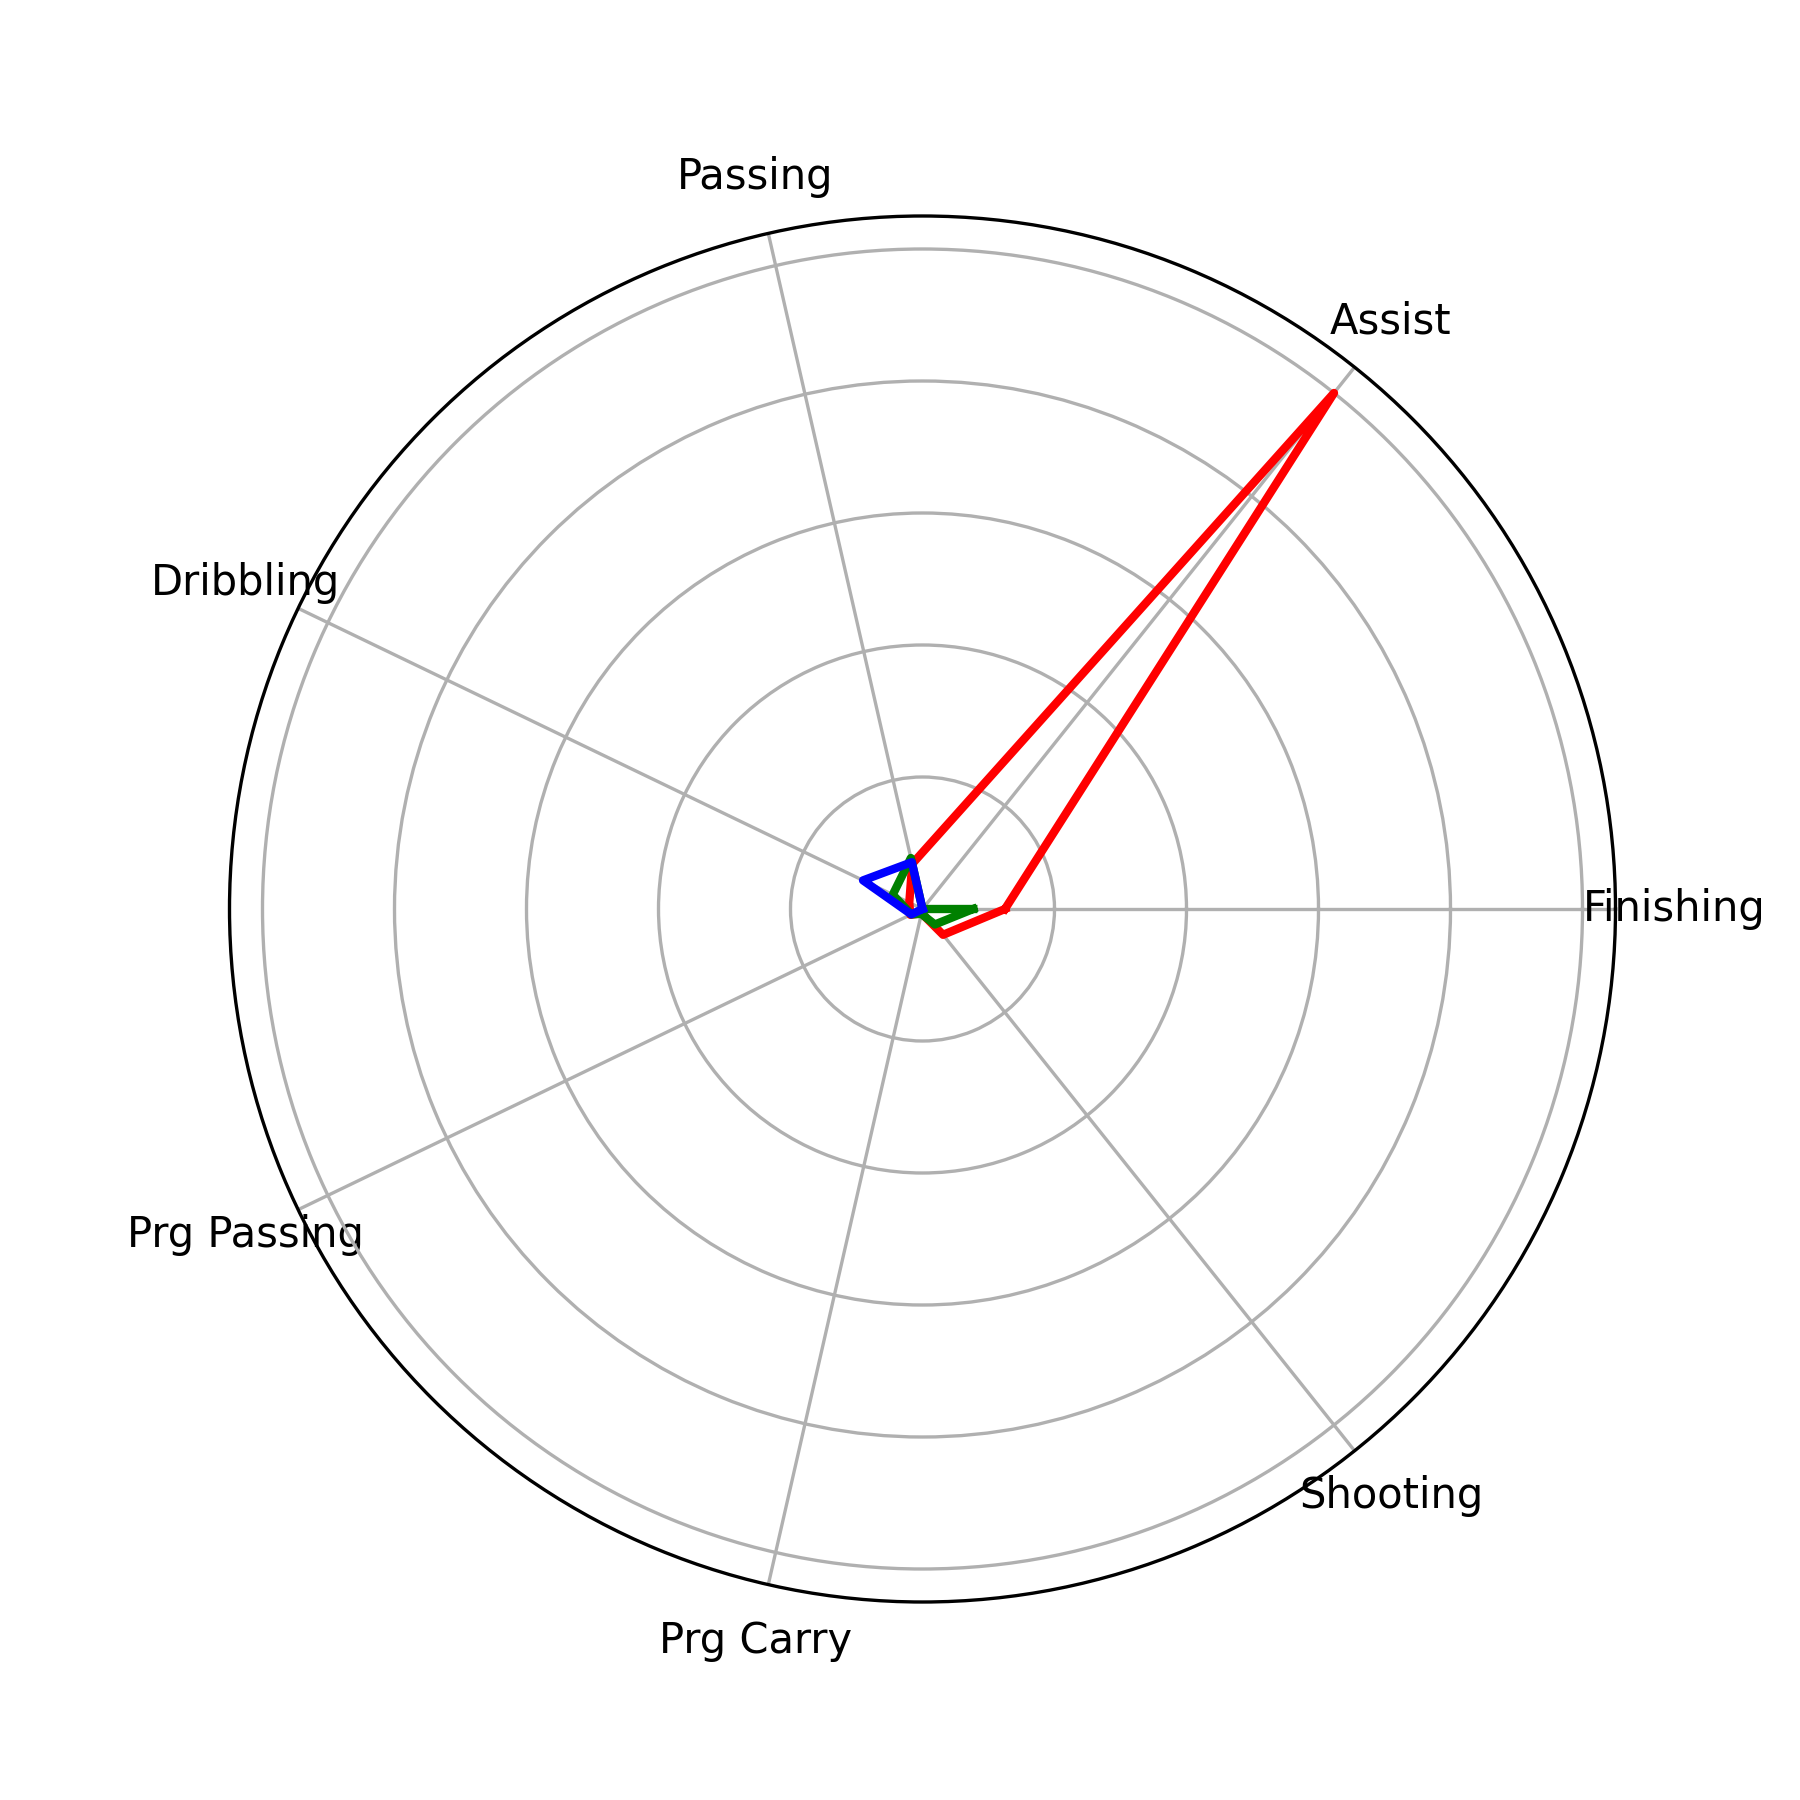
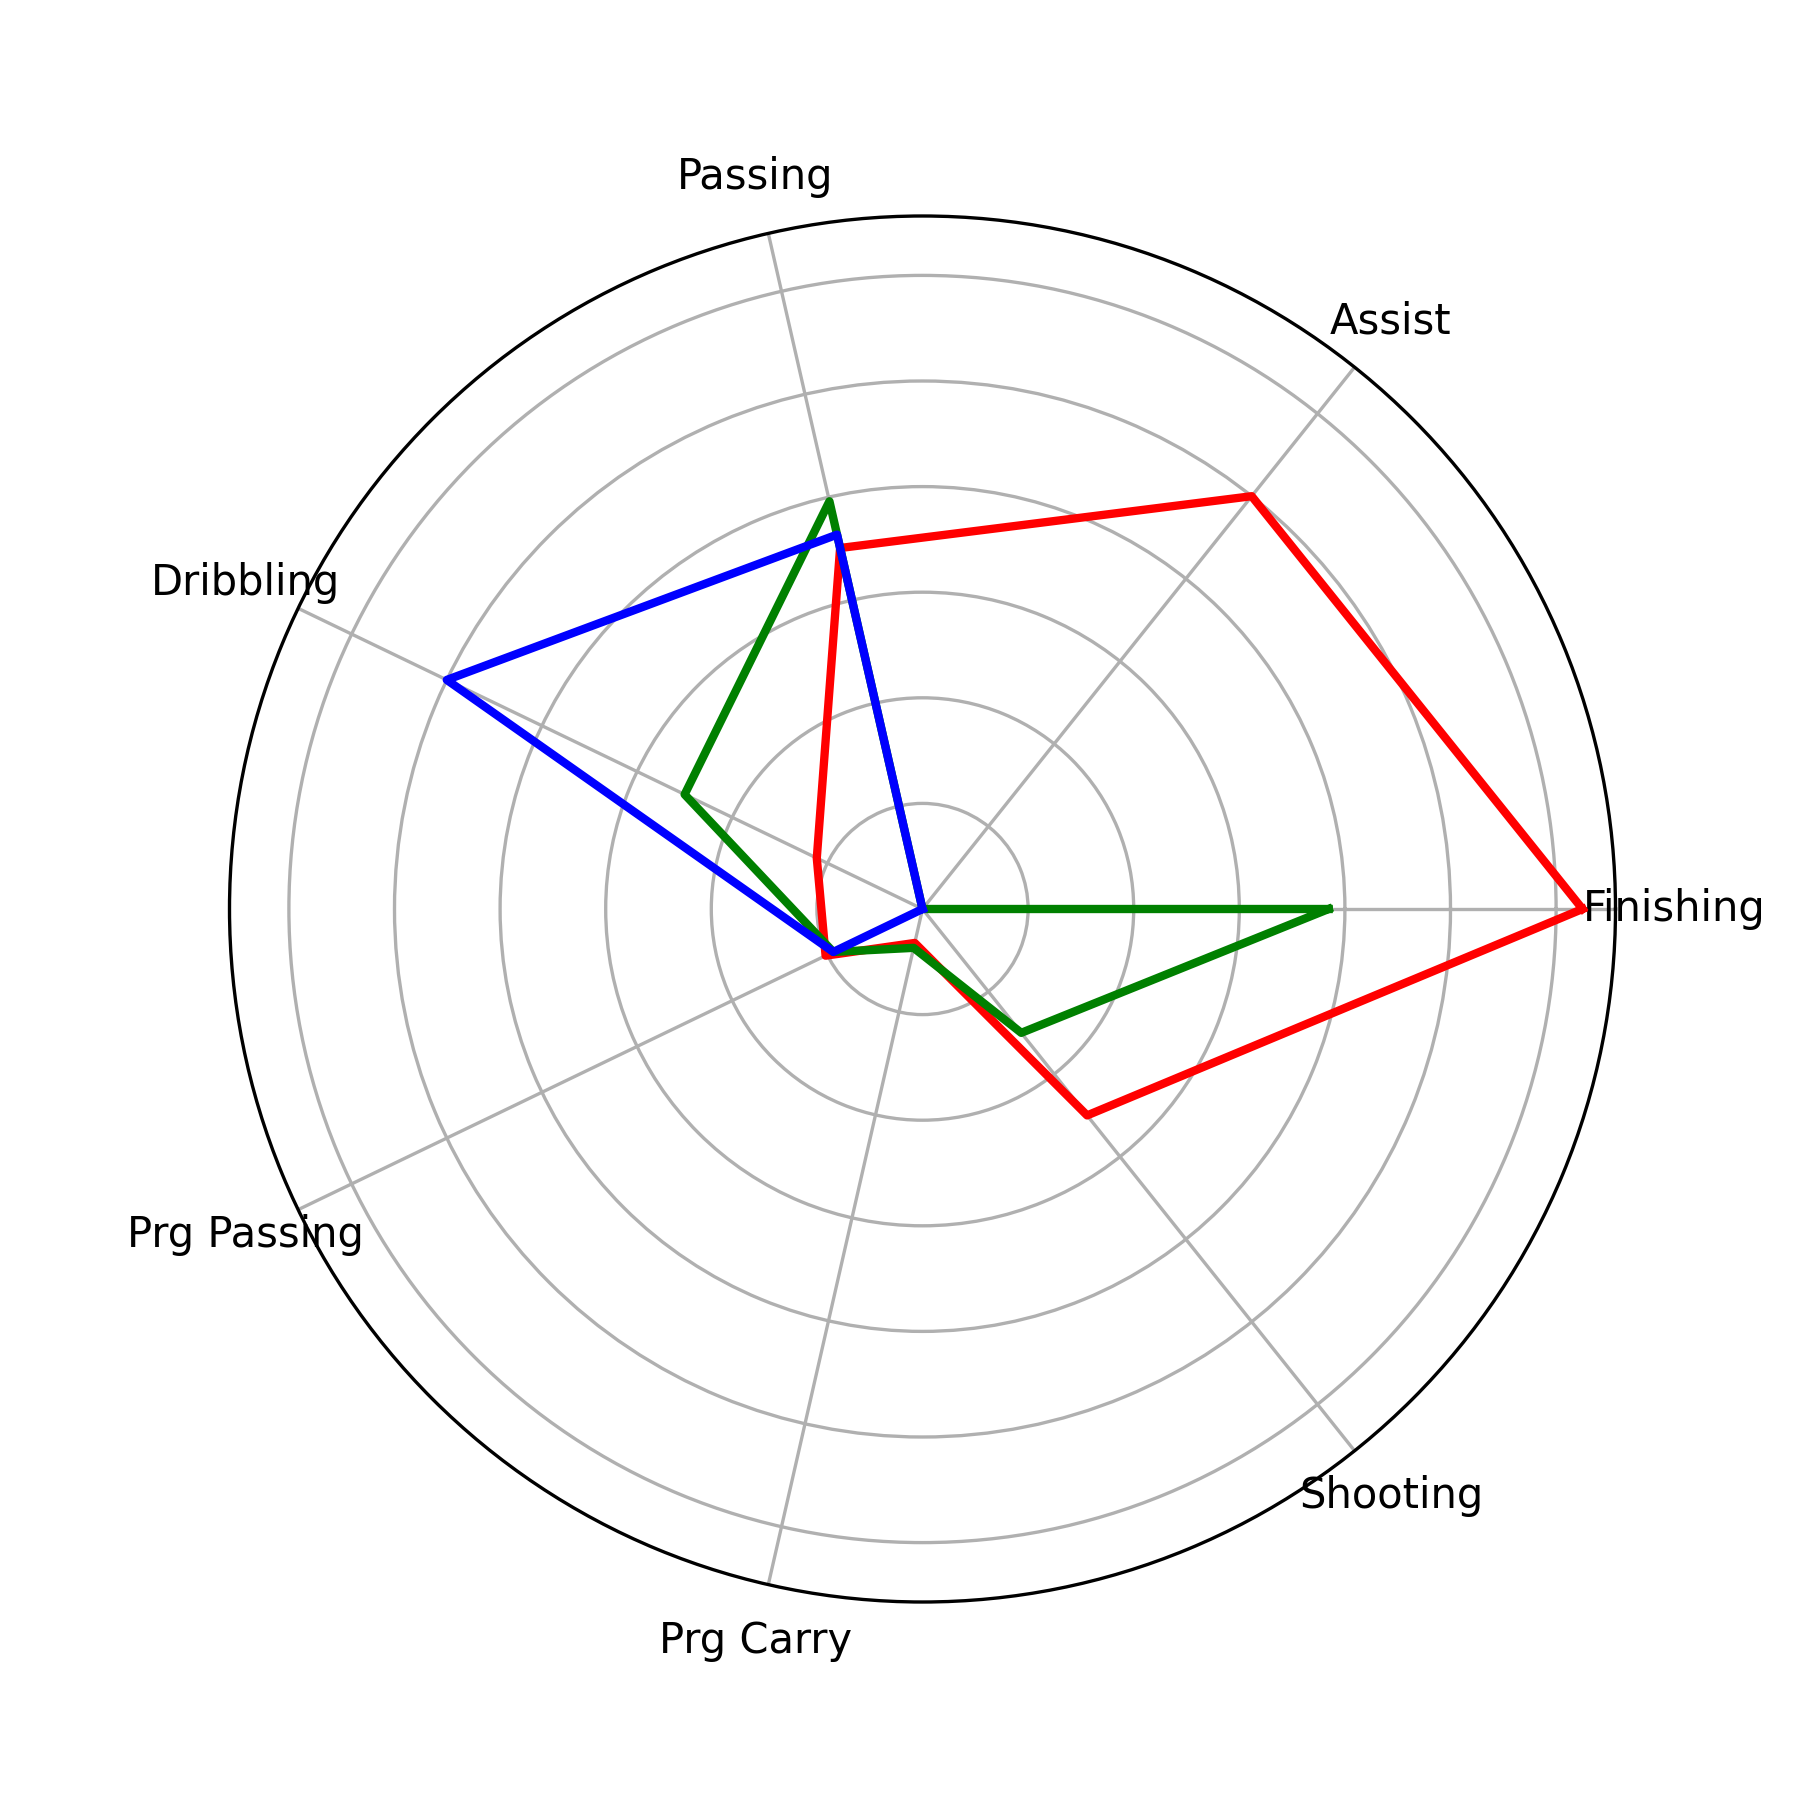
PosRadar 보기 좋게 만들기

diff --git a/VS_Position/pos_vs_radar.py b/VS_Position/pos_vs_radar.py
@@ -9,7 +9,7 @@ def dataget(url):
 
 def append_data(value, data):
     value.append((data['Performance Gls'].sum() / (data['Min'].sum() / 90)) / (data['Expected xG'].sum() / (data['Min'].sum() / 90)) if data['Expected xG'].sum() != 0 else 0.0)
-    value.append((data['Performance Ast'].sum() / (data['Min'].sum() / 90)) / (data['xA'].sum() / (data['Min'].sum() / 90)) if data['xA'].sum() != 0 else 0.0)
+    value.append(((data['Performance Ast'].sum() / (data['Min'].sum() / 90)) / (data['xA'].sum() / (data['Min'].sum() / 90)) if data['xA'].sum() != 0 else 0.0)/10) #그래프 안정화
     value.append((data['Passes Cmp'].sum() / (data['Min'].sum() / 90)) / (data['Passes Att'].sum() / (data['Min'].sum() / 90)) if data['Passes Att'].sum() != 0 else 0.0)
     value.append((data['Take-Ons Succ'].sum() / (data['Min'].sum() / 90)) / (data['Take-Ons Att'].sum() / (data['Min'].sum() / 90)) if data['Take-Ons Att'].sum() != 0 else 0.0)
     value.append((data['Passes PrgP'].sum() / (data['Min'].sum() / 90)) / (data['Passes Cmp'].sum() / (data['Min'].sum() / 90)) if data['Passes Cmp'].sum() != 0 else 0.0)
